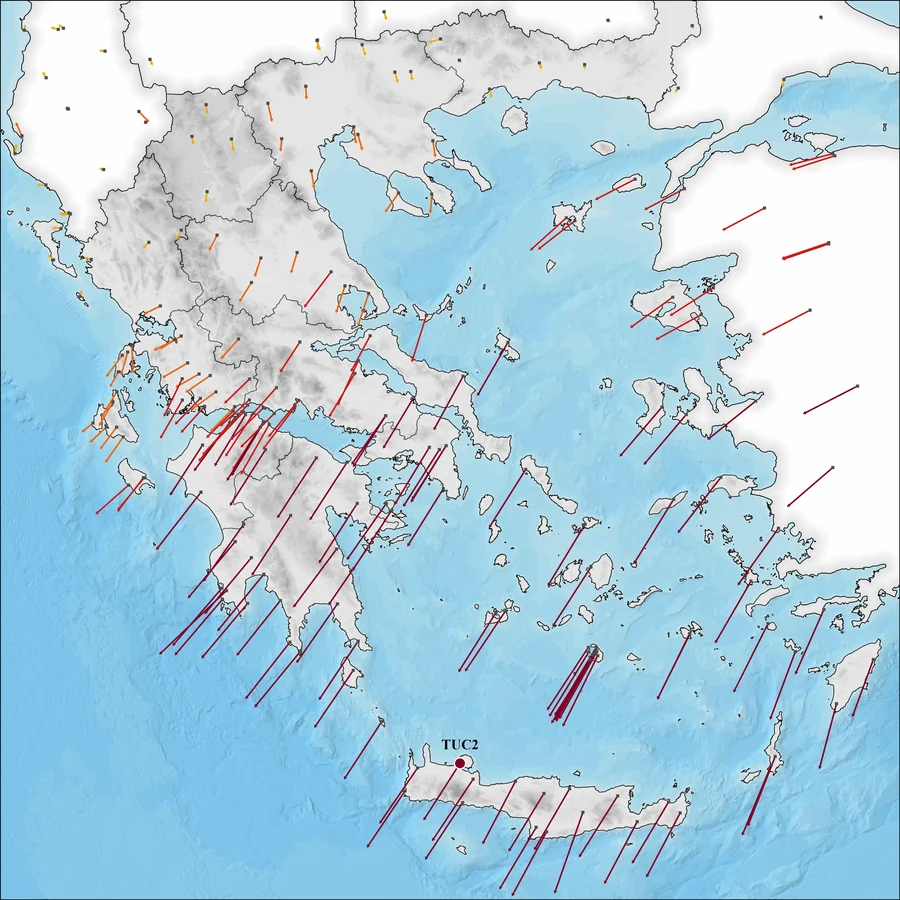
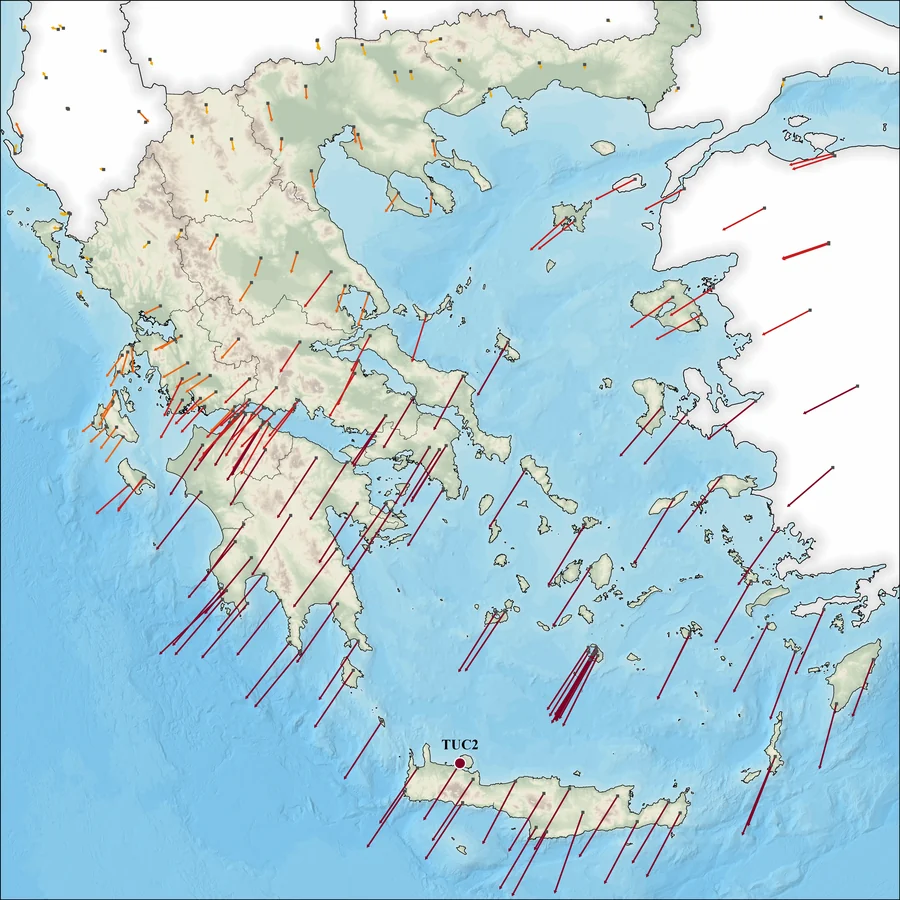
Day 1 2026: new map exports (muted relief, D_Regions coast, Natural Earth locator); credit ELSTAT and Natural Earth

diff --git a/src/content/projects/30dmc-2026-day-01-points.md b/src/content/projects/30dmc-2026-day-01-points.md
@@ -14,10 +14,10 @@ thumbnailAlt: 'Map of Greece with GNSS velocity arrows pointing south-west, long
 downloads:
   - label: 'Full-resolution map'
     href: '/downloads/30dmc-2026-day-01-map.jpg'
-    note: 'JPEG · 7016 × 4961 · 6.6 MB'
+    note: 'JPEG · 7016 × 4961 · 6.9 MB'
   - label: 'Square version'
     href: '/downloads/30dmc-2026-day-01-map-square.jpg'
-    note: 'JPEG · 4724 × 4724 · 4.7 MB'
+    note: 'JPEG · 4724 × 4724 · 4.9 MB'
   - label: 'TUC2 positioning results'
     href: '/downloads/30dmc-2026-day-01-ppp-results.csv'
     note: 'CSV · PPP minus official position, mm · 1 KB'
@@ -34,8 +34,12 @@ dataSource:
     href: 'https://doi.org/10.12770/cf51df64-56f9-4a99-b1aa-36b8d7b743a1'
   - label: 'Copernicus DEM GLO-90 - land relief'
     href: 'https://dataspace.copernicus.eu/explore-data/data-collections/copernicus-contributing-missions/collections-description/COP-DEM'
-  - label: '© EuroGeographics, via Eurostat GISCO - NUTS administrative boundaries'
+  - label: 'Hellenic Statistical Authority (ELSTAT) - Greek regional boundaries'
+    href: 'https://www.statistics.gr/en/digital-cartographical-data'
+  - label: '© EuroGeographics, via Eurostat GISCO - NUTS boundaries of the neighbouring countries'
     href: 'https://ec.europa.eu/eurostat/web/gisco/geodata/statistical-units/territorial-units-statistics'
+  - label: 'Natural Earth - country boundaries of the locator map'
+    href: 'https://www.naturalearthdata.com/'
 draft: false
 ---
 
